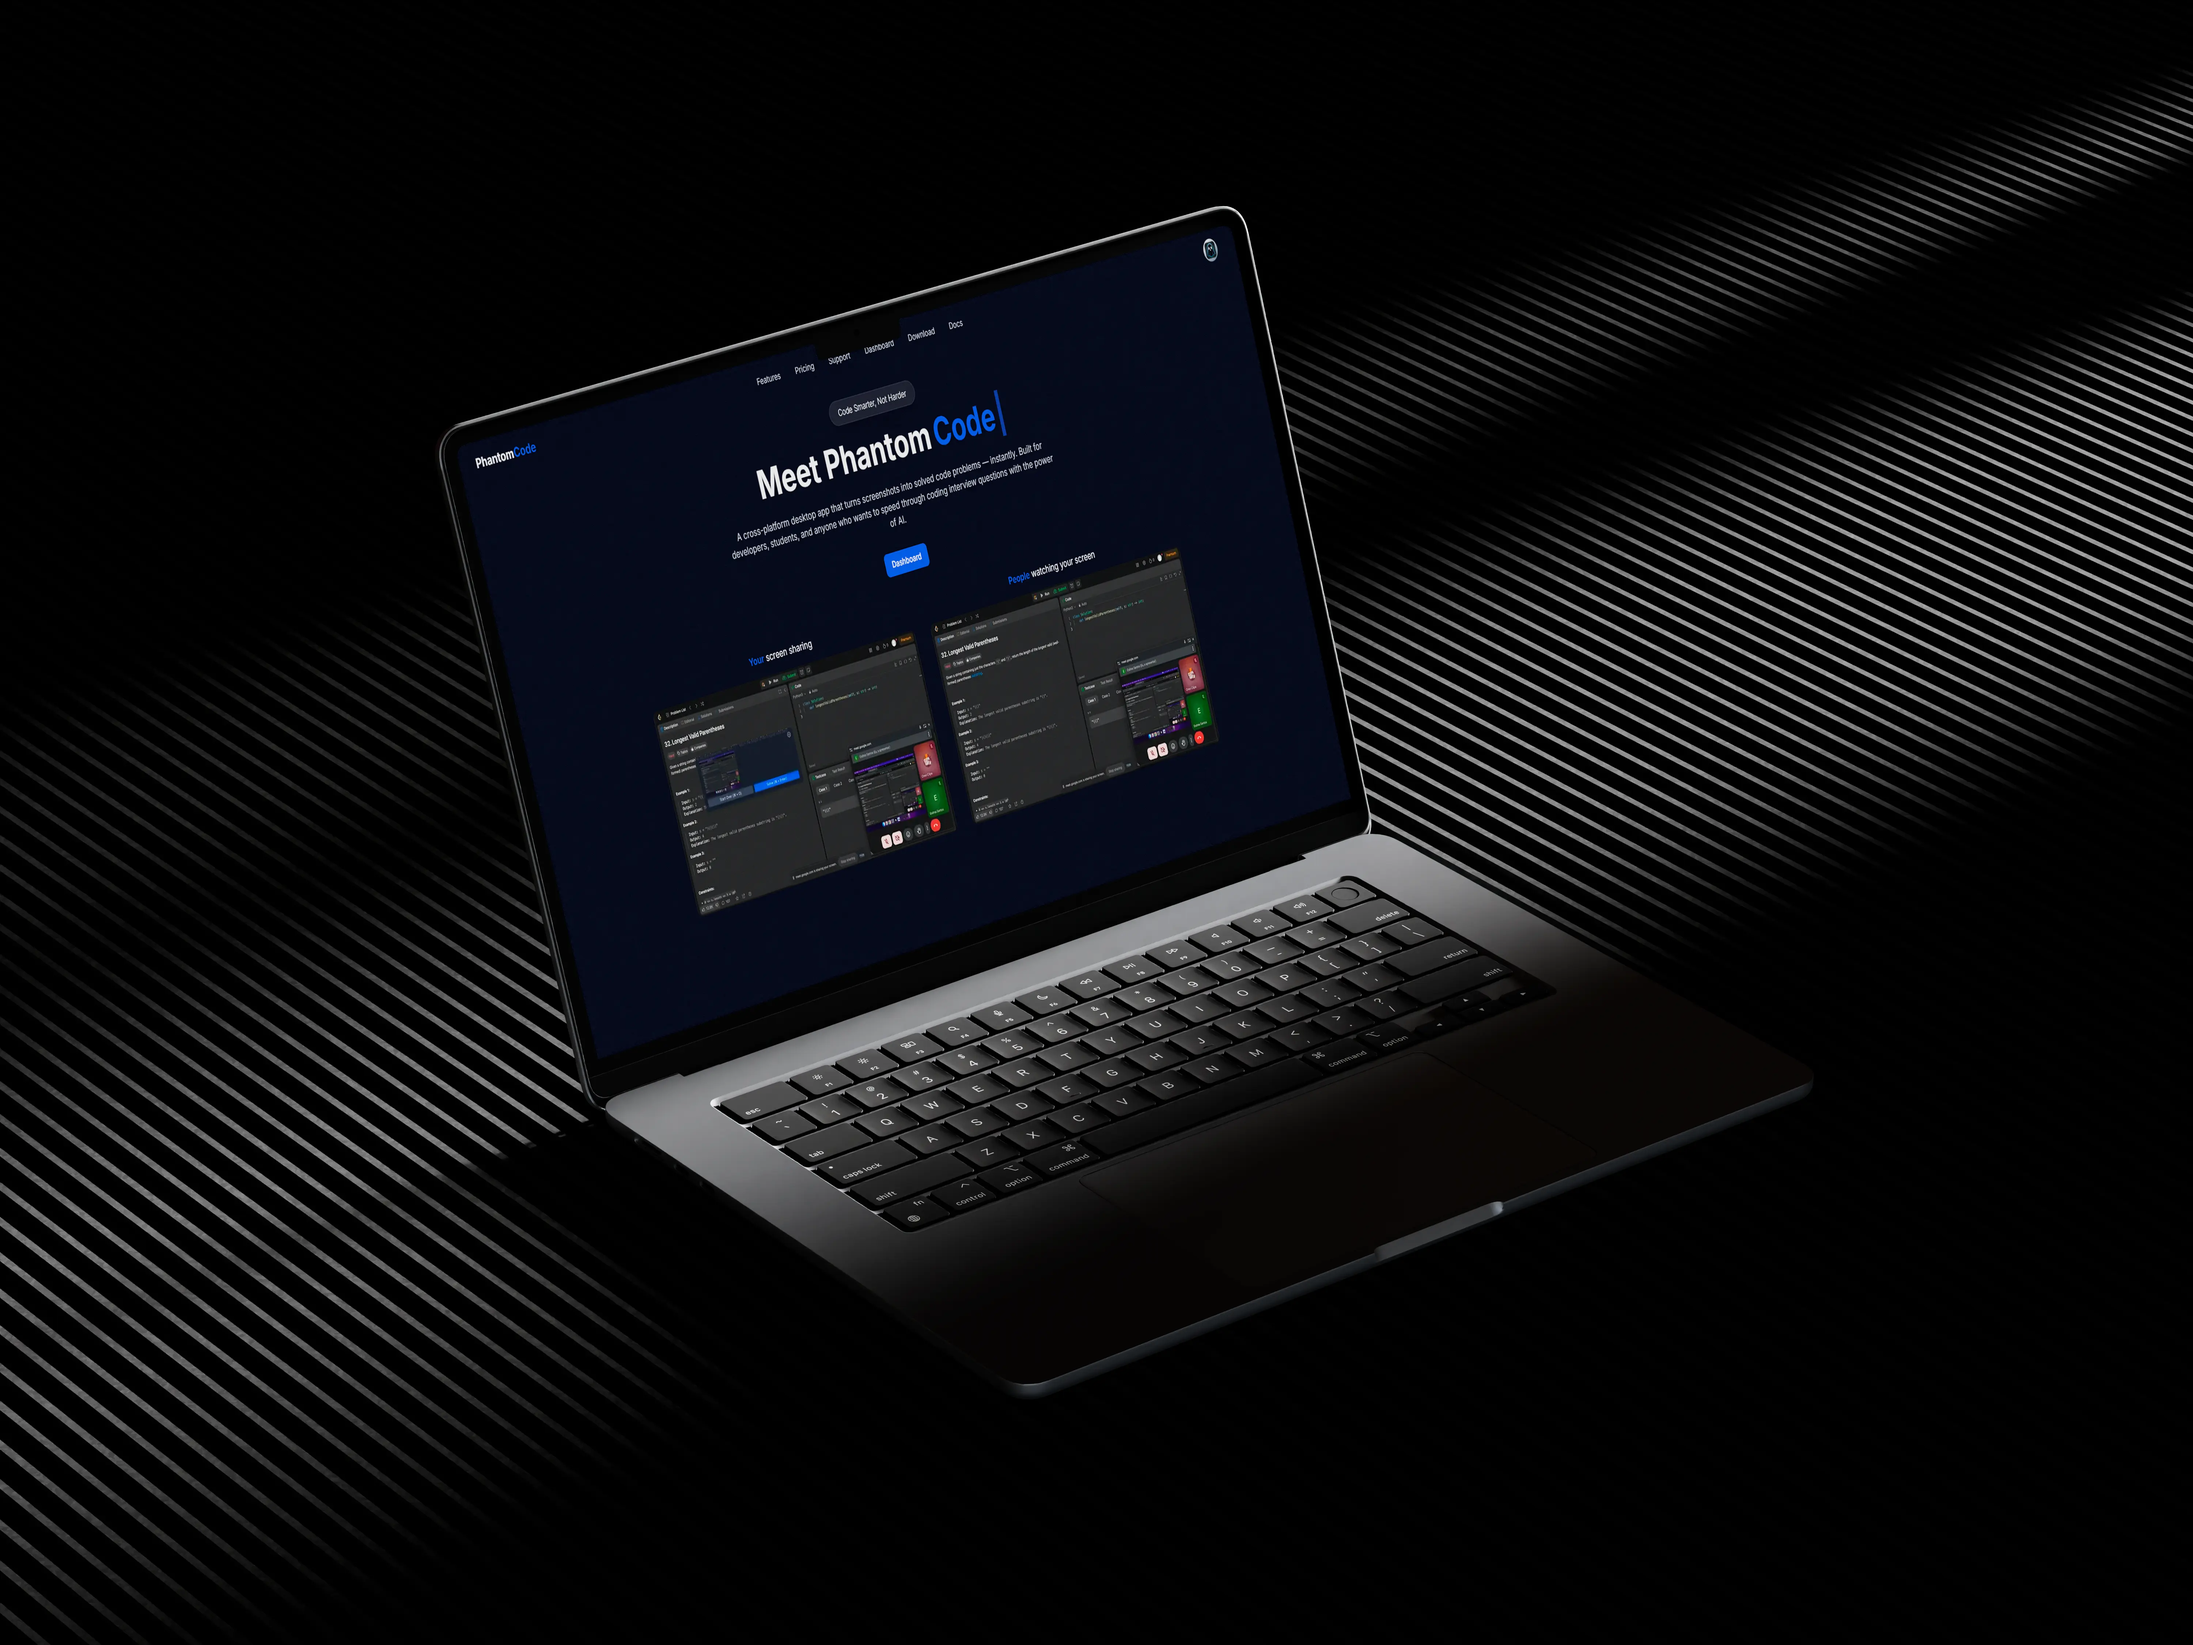
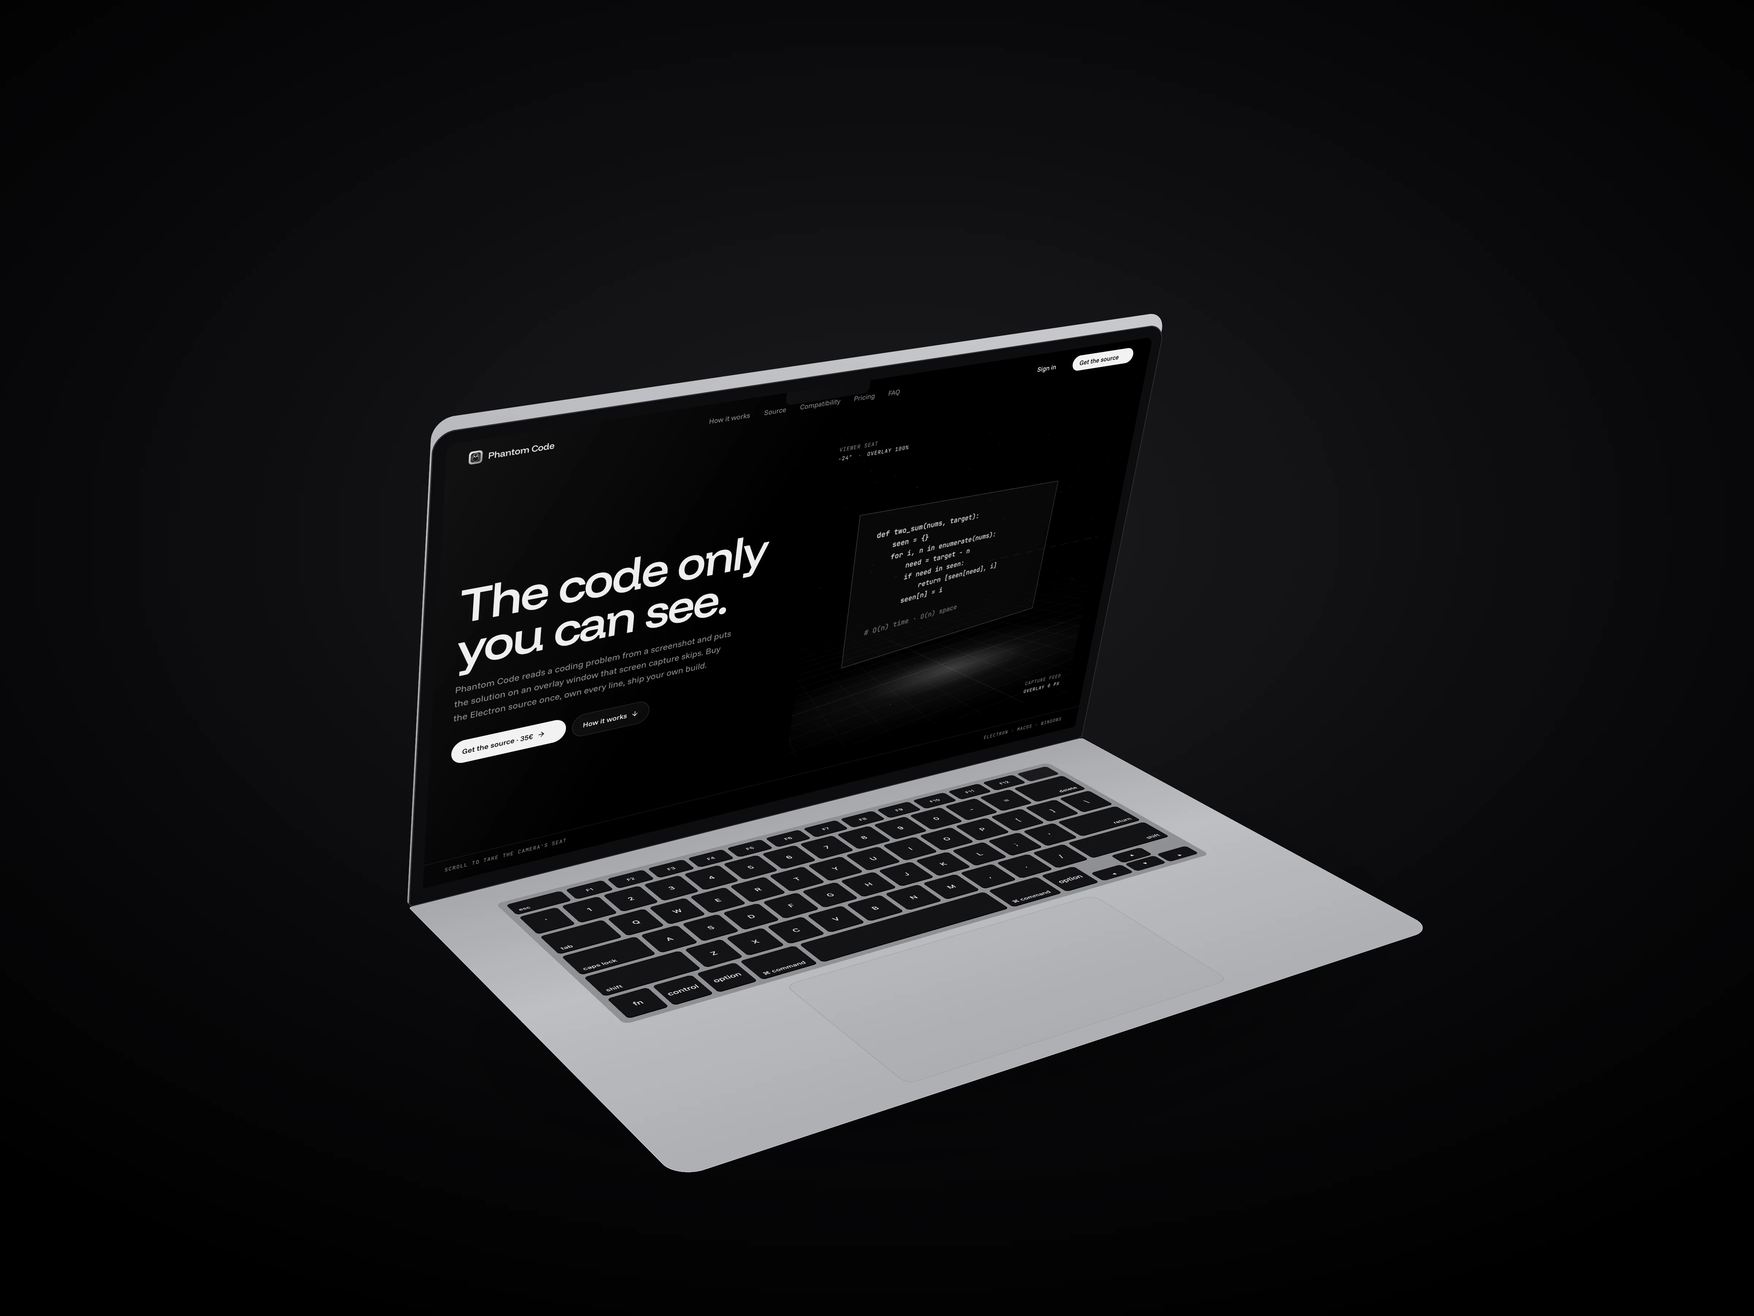
feat(projects): refresh Phantom Code mockup, copy and stack
New MacBook mockup of the redesigned site, rewritten description in
EN/PT/ES focused on the source-code product and the redesign, metrics,
and an updated technology list with Three.js, Stripe and Supabase.

Changed region(s): [[0.0, 0.0622, 1.0, 0.9956], [0.5312, 0.1244, 0.5625, 0.1556], [0.2188, 0.2489, 0.25, 0.28]]

diff --git a/src/data/projects.ts b/src/data/projects.ts
@@ -36,6 +36,9 @@ const tech = {
   zod: "Zod",
   gsap: "GSAP",
   polar: "Polar",
+  three: "Three.js",
+  stripe: "Stripe",
+  supabase: "Supabase",
 } as const;
 
 type TechName = (typeof tech)[keyof typeof tech];
@@ -132,11 +135,27 @@ export const projetos: Record<string, Project> = {
     image: "/projects-mockup/phantomcode.webp",
     demo: "https://phantomcode.pt",
     technologies: [
+      tech.next,
+      tech.ts,
+      tech.three,
+      tech.tailwind,
       tech.electron,
       tech.react,
       tech.nestjs,
-      tech.tailwind,
       tech.openai,
+      tech.betterAuth,
+      tech.prisma,
+      tech.pg,
+      tech.stripe,
+      tech.supabase,
+      tech.redis,
+      tech.docker,
+      tech.jest,
+    ],
+    metrics: [
+      { value: "112", label: "tests" },
+      { value: "17", label: "docs" },
+      { value: "2", label: "platforms" },
     ],
     namespace: "PhantomCode",
     featuredHome: true,
